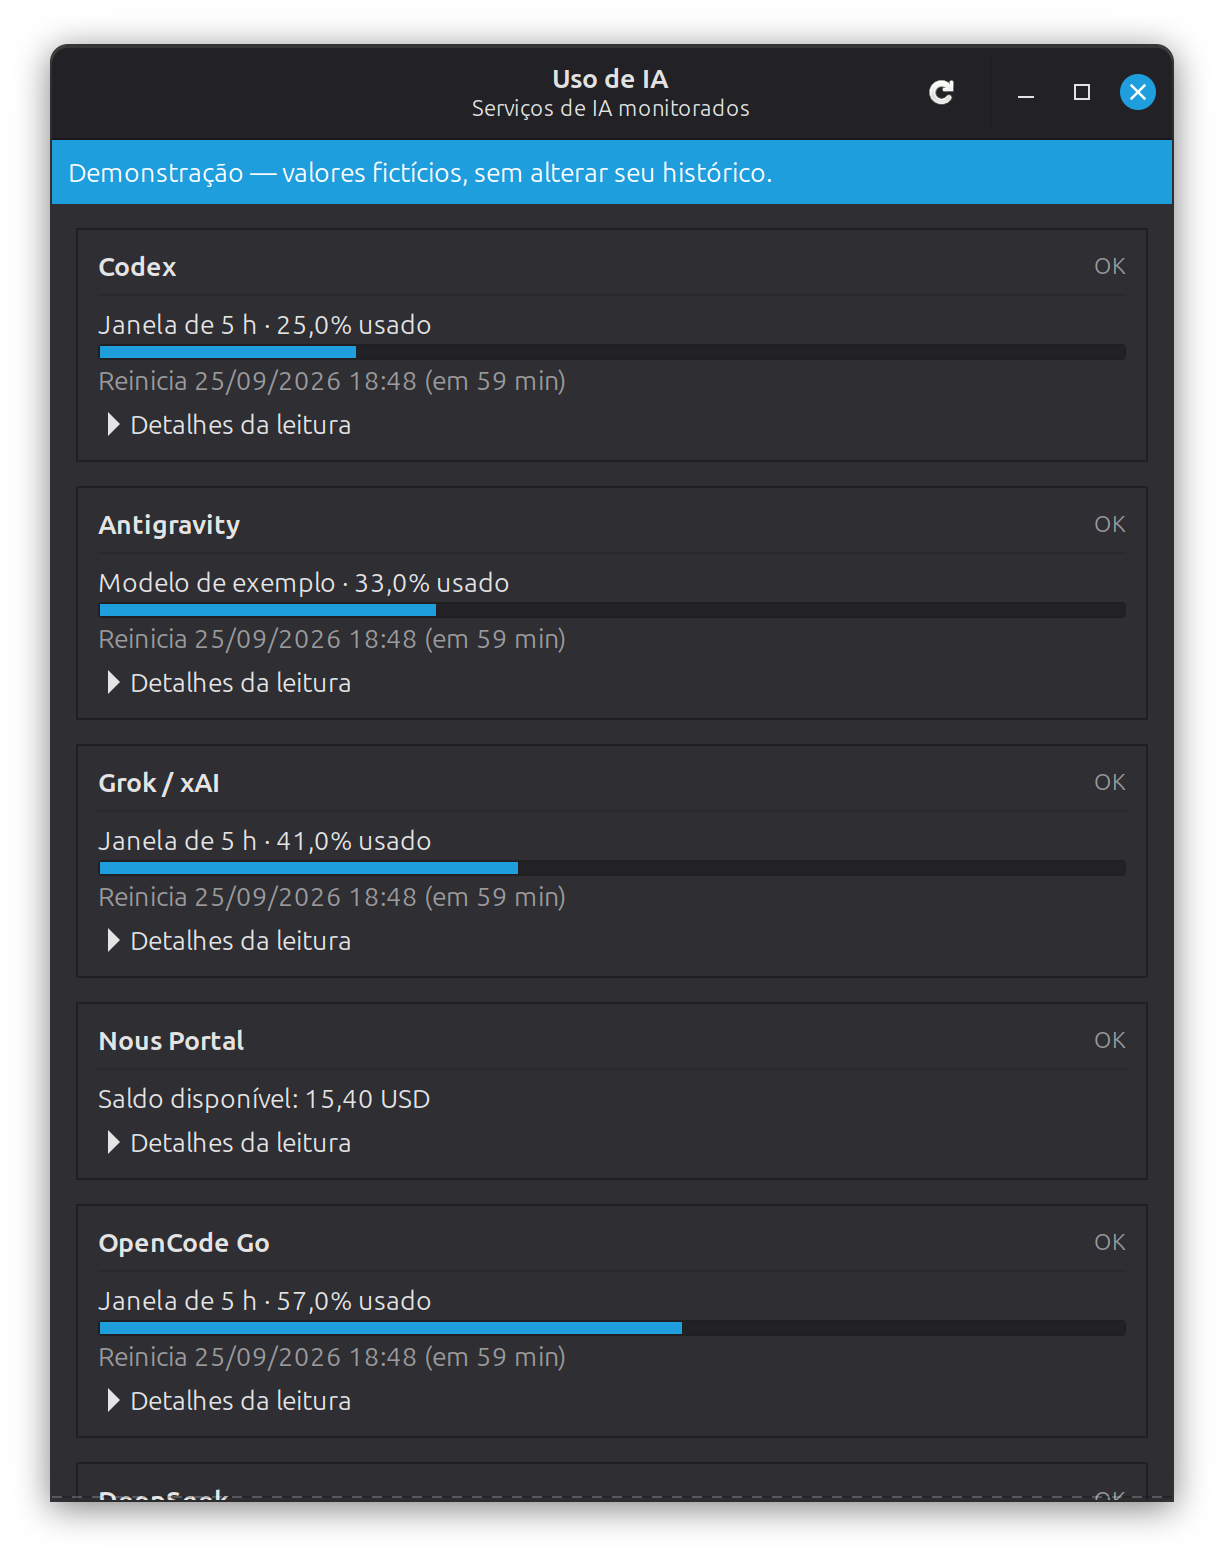
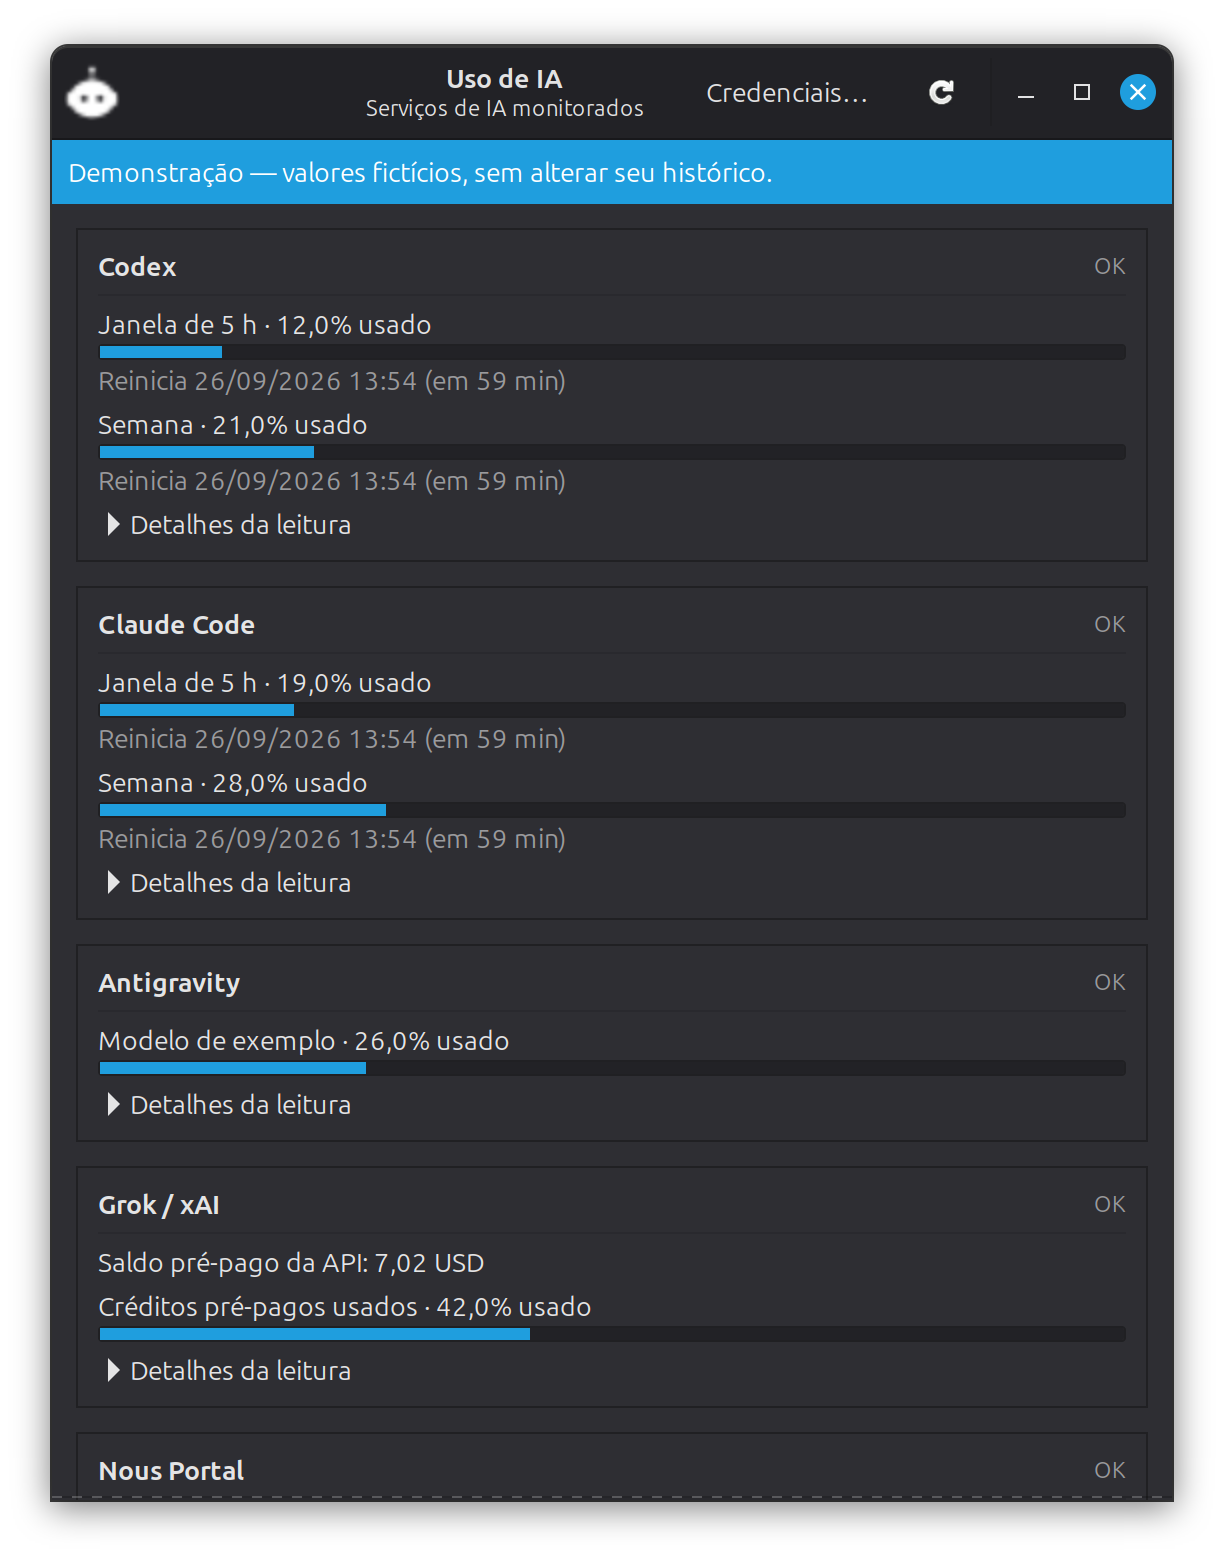
Demonstração honesta e uma única versão
A demonstração caía num ramo genérico e afirmava o que cada serviço não mede:
dava "Janela de 5 h" ao Grok, que é pré-pago, e uma janela só ao OpenCode Go,
que tem três. A prévia do README (docs/demo.png) tinha sido capturada antes
disso e antes do botão Credenciais — a imagem pública do repositório mostrava
uma interface que não existe mais e rótulos que não correspondem aos serviços.

Agora o demo segue a forma real de cada conector (tabela DEMO_SHAPES), e a
prévia foi recapturada: os nove serviços, cada um com suas métricas e rótulos,
o ícone do robô colorido e o botão Credenciais.

Junto, a versão, que estava em três lugares diferentes: metadata.json dizia
0.2.0 enquanto o User-Agent e o clientInfo diziam 0.1.0 e a validação falava em
0.1.0. Agora há uma constante VERSION = 0.2.0 em providers.py, usada no
User-Agent e no clientInfo, com README, validação e metadata coerentes — e um
teste que falha se qualquer um deles divergir.

Verificado: 72 testes offline (dois novos: forma do demo por serviço, com
checagem de que o Grok não ganha janela inventada; coerência da versão em
metadata, README, validação e providers), demo das 9 linhas conferido no
terminal e docs/demo.png recapturada e revista a olho.

diff --git a/backend/collector.py b/backend/collector.py
@@ -164,22 +164,41 @@ def collect(force=False, ttl_override=None):
         return snapshot
 
 
+# Forma de cada conector na demonstração. O demo não pode afirmar o que o serviço não mede:
+# o Grok é pré-pago (saldo e créditos usados, sem janela de 5 h) e o OpenCode Go tem três
+# janelas. Antes tudo caía no mesmo ramo e a imagem de exemplo do repositório mentia.
+DEMO_SHAPES = {
+    "codex": [("primary", "Janela de 5 h", "quota", 18000),
+              ("secondary", "Semana", "quota", 604800)],
+    "claude": [("five_hour", "Janela de 5 h", "quota", 18000),
+               ("seven_day", "Semana", "quota", 604800)],
+    "meta": [("janela", "Janela de 5 h", "quota", 18000),
+             ("semanal", "Semana", "quota", 604800)],
+    "opencode": [("rolling", "Janela móvel", "quota", None),
+                 ("weekly", "Semana", "quota", 604800),
+                 ("monthly", "Mês", "quota", None)],
+    "antigravity": [("model:exemplo", "Modelo de exemplo", "quota", None)],
+    "grok": [("balance:USD", "Saldo pré-pago da API", "balance", None),
+             ("credits_used", "Créditos pré-pagos usados", "quota", None)],
+    "nous": [("total_usable_credits", "Saldo total disponível", "balance", None),
+             ("subscription_credits_remaining", "Saldo do plano", "balance", None)],
+    "deepseek": [("balance:USD", "Saldo disponível", "balance", None)],
+    "openrouter": [("usage_monthly", "Gasto no mês", "spend", None)],
+}
+
+
 def demo():
     items = []
     for i, id_ in enumerate(SERVICES):
-        if id_ in ("deepseek", "nous"):
-            metrics = [metric("balance", "Saldo disponível", "balance", value=12.4+i, currency="USD")]
-        elif id_ == "openrouter":
-            metrics = [metric("usage_monthly", "Gasto no mês", "spend", value=4.02, currency="USD")]
-        elif id_ in ("meta", "claude"):
-            metrics = [metric("janela", "Janela de 5 h", "quota", percent=12, window=18000,
-                              reset=time.time()+3600),
-                       metric("semanal", "Semana", "quota", percent=45, window=604800,
-                              reset=time.time()+86400)]
-        else:
-            metrics = [metric("primary", "Janela de 5 h" if id_ != "antigravity" else "Modelo de exemplo",
-                       "quota", percent=25+i*8, window=18000 if id_ != "antigravity" else None,
-                       reset=time.time()+3600)]
+        metrics = []
+        for position, (metric_id, label, kind, window) in enumerate(DEMO_SHAPES.get(id_, [])):
+            if kind in ("balance", "spend"):
+                metrics.append(metric(metric_id, label, kind, value=4.02 + i + position,
+                                      currency="USD"))
+                continue
+            metrics.append(metric(metric_id, label, "quota",
+                                  percent=min(92, 12 + i * 7 + position * 9), window=window,
+                                  reset=time.time() + 3600 if window else None))
         item = service(id_, source="Simulação — nenhum dado real", metrics=metrics)
         item.update(last_used_at=stamp(time.time()-i*900), recency_basis="observed_change")
         items.append(item)

diff --git a/tests/test_backend.py b/tests/test_backend.py
@@ -579,6 +579,31 @@ class CredentialFileTests(unittest.TestCase):
             self.assertEqual(p.credentials.read_file(str(Path(tmp)/'nao-existe'), motivos), {})
 
 
+class DemoAndVersionTests(unittest.TestCase):
+    """A demonstração não pode afirmar o que o serviço não mede, e a versão é uma só."""
+
+    def test_demo_follows_each_connector_shape(self):
+        por_id = {s['id']: s for s in c.demo()['services']}
+        grok = por_id['grok']['metrics']
+        self.assertIn('balance', [m['kind'] for m in grok])
+        self.assertFalse([m for m in grok if m['window_seconds'] == 18000])  # não é pré-pago com 5 h
+        self.assertEqual([m['label'] for m in por_id['opencode']['metrics']],
+                         ['Janela móvel', 'Semana', 'Mês'])
+        self.assertEqual(por_id['openrouter']['metrics'][0]['kind'], 'spend')
+        for servico in c.demo()['services']:
+            self.assertTrue(servico['metrics'], servico['id'])
+            for metrica in servico['metrics']:
+                if metrica['kind'] == 'quota':
+                    self.assertIsNotNone(metrica['used_percent'])
+
+    def test_version_matches_everywhere(self):
+        raiz = Path(__file__).resolve().parents[1]
+        self.assertEqual(json.loads((raiz/'applet/metadata.json').read_text())['version'], p.VERSION)
+        self.assertIn(p.VERSION, (raiz/'docs/validation.md').read_text())
+        self.assertIn(p.VERSION, (raiz/'README.md').read_text())
+        self.assertNotIn('0.1.0', (raiz/'backend/providers.py').read_text())
+
+
 class LockNoticeTests(unittest.TestCase):
     """Trava ocupada é aviso, não falha: o applet precisa distinguir "pulei" de "falhei"."""
 

diff --git a/backend/providers.py b/backend/providers.py
@@ -118,9 +118,12 @@ class NoRedirect(HTTPRedirectHandler):
         raise Unavailable("Redirecionamento inesperado; consulta interrompida.", "error")
 
 
+VERSION = "0.2.0"  # mesma versão de applet/metadata.json (o teste confere)
+
+
 def request(url, token=None, data=None, headers=None, local=False, timeout=8):
     # Caller URLs are fixed trusted endpoints; never follow redirects with credentials.
-    h = {"Accept": "application/json", "User-Agent": "cinnamon-ai-usage/0.1.0"}
+    h = {"Accept": "application/json", "User-Agent": f"cinnamon-ai-usage/{VERSION}"}
     if token:
         h["Authorization"] = "Bearer " + token
     h.update(headers or {})
@@ -213,7 +216,7 @@ def codex(config=None):
 
     try:
         send({"id": 1, "method": "initialize", "params": {
-            "clientInfo": {"name": "cinnamon-ai-usage", "version": "0.1.0"}}})
+            "clientInfo": {"name": "cinnamon-ai-usage", "version": VERSION}}})
         receive(1)
         send({"method": "initialized"})
         send({"id": 2, "method": "account/rateLimits/read"})

diff --git a/README.md b/README.md
@@ -1,6 +1,6 @@
 # Uso de IA para Cinnamon
 
-Applet local para consultar cotas, gastos e saldos de serviços de IA no Linux Mint Cinnamon.
+Versão 0.2.0. Applet local para consultar cotas, gastos e saldos de serviços de IA no Linux Mint Cinnamon.
 
 - **Clique simples:** até cinco serviços, primeiro os com uso observado e depois os de leitura mais recente (quem não tem leitura não ocupa linha).
 - **Passe o mouse:** balão com resumo por serviço, horário da coleta e avisos.

diff --git a/docs/validation.md b/docs/validation.md
@@ -1,4 +1,4 @@
-# Validação da versão 0.1.0 — 25 e 26/09/2026
+# Validação da versão 0.2.0 — 25 e 26/09/2026
 
 ## Resultado
 
